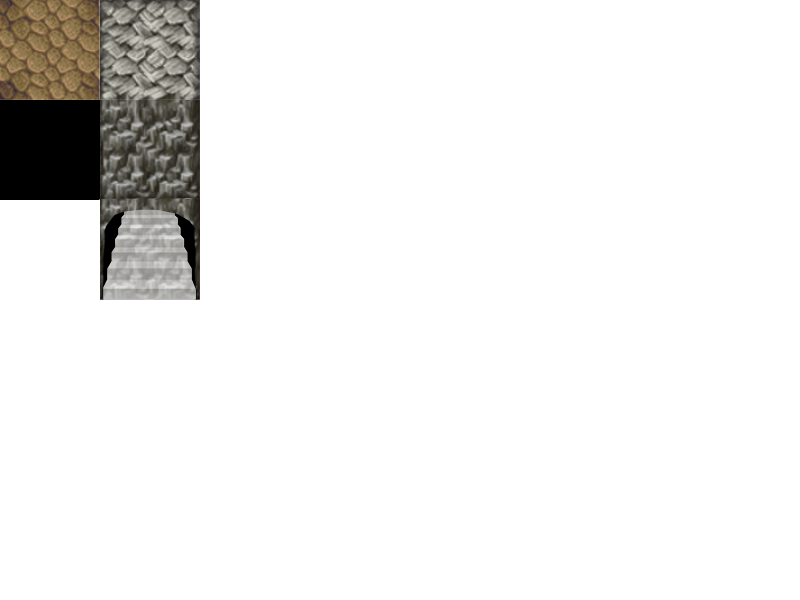
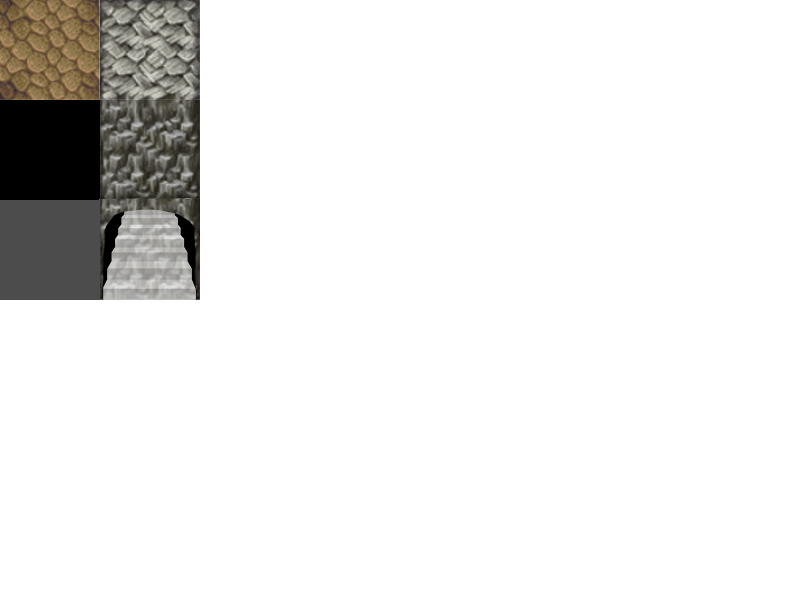
Fog of war bug fixed!
Fixed bugs:
- removing fog from right or top edge of map would throw nullpointerexception
	- top and right bounds of the map were not being check when trying to remove fog

Fog improvements:
- fog is now remove around visited slidetiles
- added thin layer fog under original fog to make fog more appealing
- circular view range instead of a square
- bernard now has a sightrange to modify fog removal area

Changed region(s): [[0.0, 0.33, 0.125, 0.51]]

diff --git a/core/src/edu/uco/shvosi/Map.java b/core/src/edu/uco/shvosi/Map.java
@@ -8,6 +8,7 @@ import com.badlogic.gdx.maps.tiled.TiledMapRenderer;
 import com.badlogic.gdx.maps.tiled.TiledMapTileLayer;
 import com.badlogic.gdx.maps.tiled.TmxMapLoader;
 import com.badlogic.gdx.maps.tiled.renderers.OrthogonalTiledMapRenderer;
+import com.badlogic.gdx.math.Vector2;
 import com.badlogic.gdx.scenes.scene2d.actions.SequenceAction;
 import java.util.ArrayList;
 import java.util.List;
@@ -25,9 +26,10 @@ public class Map {
     public Protagonist bernard;
     private OrthographicCamera cameraMiniMap;
     private OrthographicCamera cameraFullMap;
-    private TiledMapTileLayer fogLayer;
+    private TiledMapTileLayer thickFogLayer;
+    private TiledMapTileLayer thinFogLayer;
     private int[] mapIndex = {0};
-    private int[] fogIndex = {2};
+    private int[] fogIndex = {2,3};
 
     public static List<Entity> miscEntityList;
 
@@ -37,7 +39,8 @@ public class Map {
         this.renderer = new OrthogonalTiledMapRenderer(this.tiledMap);
         TiledMapTileLayer mapLayer = (TiledMapTileLayer) tiledMap.getLayers().get(0);
         TiledMapTileLayer entityLayer = (TiledMapTileLayer) tiledMap.getLayers().get(1);
-        fogLayer = (TiledMapTileLayer) tiledMap.getLayers().get(2);
+        thinFogLayer = (TiledMapTileLayer) tiledMap.getLayers().get(2);
+        thickFogLayer = (TiledMapTileLayer) tiledMap.getLayers().get(3);
 
         //Setup mapGrid
         mapGrid = new Constants.MapGridCode[mapLayer.getWidth()][mapLayer.getHeight()];
@@ -214,9 +217,35 @@ public class Map {
         renderer.render();
     }
 
-    private void removeFog(int cX, int cY) {
-        if (fogLayer.getCell(cX, cY).getTile() != null) {
-            fogLayer.getCell(cX, cY).setTile(null);
+    private void removeThickFog(int cX, int cY) {
+        if(cX >= mapGrid.length || cY >= mapGrid[0].length || cX < 0 || cY < 0)
+            return;
+        if (thickFogLayer.getCell(cX, cY).getTile() != null) {
+            thickFogLayer.getCell(cX, cY).setTile(null);
+        }
+    }
+    
+    private void removeThinFog(int cX, int cY) {
+        if(cX >= mapGrid.length || cY >= mapGrid[0].length || cX < 0 || cY < 0)
+            return;
+        if (thinFogLayer.getCell(cX, cY).getTile() != null) {
+            thinFogLayer.getCell(cX, cY).setTile(null);
+        }
+    }
+    
+    public void removeFogAroundBernard(){
+        int x = -bernard.sightRadius;
+        int y = bernard.sightRadius;
+        for (int i = 0; i < 1+bernard.sightRadius*2; i++) {
+            y = bernard.sightRadius;
+            for (int j = 0; j < 1+bernard.sightRadius*2; j++) {
+                if(Math.round(Vector2.dst(0, 0, x, y)) <= bernard.sightRadius)
+                    removeThickFog(bernard.getCX() + x, bernard.getCY() + y);
+                if(Math.round(Vector2.dst(0, 0, x, y)) <= bernard.sightRadius-1)
+                    removeThinFog(bernard.getCX() + x, bernard.getCY() + y);
+                y--;
+            }
+            x++;
         }
     }
 
@@ -251,18 +280,7 @@ public class Map {
         bernard.setY(bernard.getCY() * Constants.TILEDIMENSION);
         entityList.add(bernard);
         //Remove fog
-        int x = -2;
-        int y = 2;
-        for (int i = 0; i < 5; i++) {
-            y = 2;
-            for (int j = 0; j < 5; j++) {
-                if (bernard.getCX() + x >= 0 && bernard.getCY() + y >= 0) {
-                    removeFog(bernard.getCX() + x, bernard.getCY() + y);
-                }
-                y--;
-            }
-            x++;
-        }
+        this.removeFogAroundBernard();
     }
 
     private void initEnemy(int cX, int cY, Constants.EnemyType enemyType) {
@@ -633,18 +651,7 @@ public class Map {
         if (entity instanceof Protagonist) {
             if (entity.getTurnAction() == Constants.TurnAction.MOVE) {
                 moveEntity(entity);
-                int x = -2;
-                int y = 2;
-                for (int i = 0; i < 5; i++) {
-                    y = 2;
-                    for (int j = 0; j < 5; j++) {
-                        if (entity.getCX() + x >= 0 && entity.getCY() + y >= 0) {
-                            removeFog(entity.getCX() + x, entity.getCY() + y);
-                        }
-                        y--;
-                    }
-                    x++;
-                }
+                this.removeFogAroundBernard();
             }
             entity.performActions();
         } else if (entity instanceof Antagonist) {

diff --git a/core/src/edu/uco/shvosi/GameScreen.java b/core/src/edu/uco/shvosi/GameScreen.java
@@ -319,6 +319,8 @@ public class GameScreen implements Screen {
                         aggressor.collision(map.getEntityList().get(j));
                     }
                 }
+                if(bernard.getSliding())
+                    map.removeFogAroundBernard();
             }
 
             //Add actions to the activeEntity if it just started its turn!
@@ -395,12 +397,10 @@ public class GameScreen implements Screen {
             map = new Map(this.bernard, "maps/testmap.tmx");
             level = 1;
         } else if (level == 1) {
-//            map = new Map(this.bernard, "colemap/colemap.tmx");
             map = new Map(this.bernard, "maps/testmap2.tmx");
             level = 2;
         } else if (level == 2) {
             map = new Map(this.bernard, "colemap/colemap.tmx");
-//            map = new Map(this.bernard, "maps/testmap2.tmx");
             level = 0;
         }
         map.bernard.removeAllObservers();

diff --git a/core/src/edu/uco/shvosi/Protagonist.java b/core/src/edu/uco/shvosi/Protagonist.java
@@ -87,6 +87,7 @@ public class Protagonist extends Entity implements Observable {
     static int[] inventory = new int[10];
     private int index = 0;
     static int active = 0;
+    protected int sightRadius;
     
     private List<Observer> observers;
 
@@ -96,6 +97,7 @@ public class Protagonist extends Entity implements Observable {
         this.health = this.maxHealth;
         this.direction = Constants.Direction.NONE;
         this.observers = new ArrayList();
+        this.sightRadius = 3;
 
         this.name = "Bernard";
 
